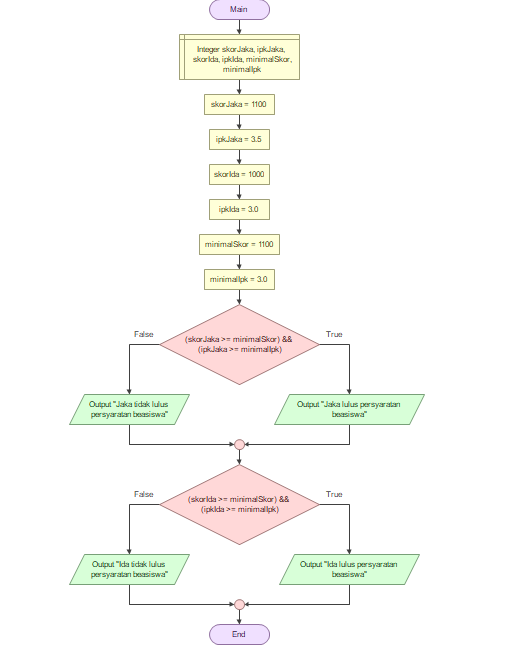
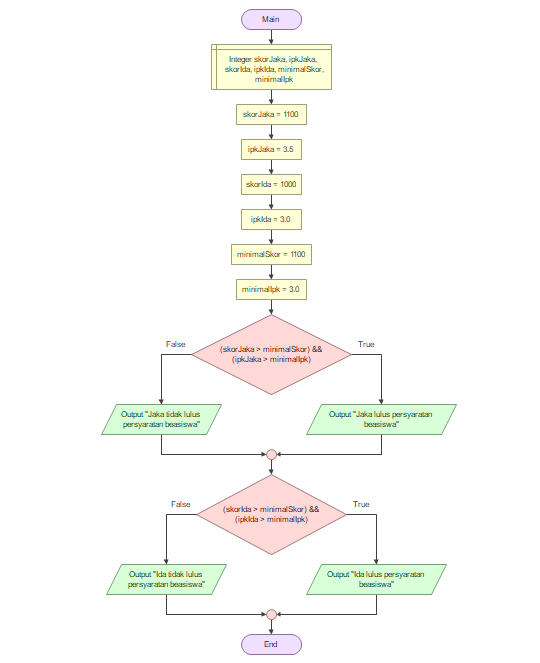
240441100133_MohYogaDwiPrasetyo_Modul2_AsprakKakIqbal

diff --git a/modul 2/240441100133_MohYogaDwiPrasetyo/soall1.py b/modul 2/240441100133_MohYogaDwiPrasetyo/soall1.py
@@ -4,16 +4,18 @@ nilai_uts = int(input("Masukkan nilai uts: "))
 nilai_uas = int(input("Masukkan nilai uas: "))
 nilai_rata_rata = (nilai_uts + nilai_uas) / 2
 
-if nilai_rata_rata >= 81 <= 100:
+if nilai_rata_rata >= 81 and nilai_rata_rata <= 100:
     print("Anda mendapatkan nilai A")
-elif nilai_rata_rata >= 71 <= 80:
+elif nilai_rata_rata >= 71 and nilai_rata_rata <= 80:
     print("Anda mendapatkan nilai B")
-elif nilai_rata_rata >= 61 <= 70:
+elif nilai_rata_rata >= 61 and nilai_rata_rata <= 70:
     print("Anda mendapatkan nilai C")
-elif nilai_rata_rata >= 41 <= 60:
+elif nilai_rata_rata >= 41 and nilai_rata_rata <= 60:
     print("Anda mendapatkan nilai D")
-else:
+elif nilai_rata_rata >= 0 and nilai_rata_rata <= 40:
     print("Anda mendapatkan nilai E")
+else:
+    print("Data Not Found")
 
 print("Nama anda: " + nama)
 print("NIM anda: ", nim)

diff --git a/modul 2/240441100133_MohYogaDwiPrasetyo/soall2.py b/modul 2/240441100133_MohYogaDwiPrasetyo/soall2.py
@@ -7,13 +7,13 @@ minimal_skor = 1100
 minimal_ipk = 3.0
 
 #JAKA
-if skor_jaka >= minimal_skor and ipk_jaka >= minimal_ipk: #AND (keduanya harus benar)
+if skor_jaka > minimal_skor and ipk_jaka > minimal_ipk:
     print("Jaka lulus persyaratan beasiswa")
 else:
     print("Jaka tidak lulus persyaratan beasiswa")
     
 #IDA
-if skor_ida >= minimal_skor and ipk_ida >= minimal_ipk:
+if skor_ida > minimal_skor and ipk_ida > minimal_ipk:
     print("Ida lulus persyaratan beasiswa")
 else:
     print("Ida tidak lulus persyaratan beasiswa")

diff --git a/modul 2/240441100133_MohYogaDwiPrasetyo/soall5.py b/modul 2/240441100133_MohYogaDwiPrasetyo/soall5.py
@@ -10,12 +10,12 @@ if usia < 18:
     exit()
     
 if member == "ya":
-    diskon = diskon + 0.15  
+    diskon += 15  
         
 if total_belanja > 500000:
-    diskon = diskon + 0.10      
+    diskon += 10      
 
-total_diskon = total_belanja * diskon
+total_diskon = total_belanja * (diskon/100)
 total_setelah_diskon = total_belanja - total_diskon
 
 print(f"Nama Pembeli: {nama}")

diff --git a/modul 2/240441100133_MohYogaDwiPrasetyo/soall4.py b/modul 2/240441100133_MohYogaDwiPrasetyo/soall4.py
@@ -1,6 +1,6 @@
 tahun = int(input("Masukkan tahun: "))
 
-if (tahun % 4 == 0 and tahun % 100 != 0) or (tahun % 400 == 0): # != tidak sama dengan
+if (tahun % 4 == 0 and tahun % 100 != 0) or (tahun % 400 == 0):
     print(f"{tahun} adalah tahun kabisat")
 else:
     print(f"{tahun} bukan tahun kabisat")
